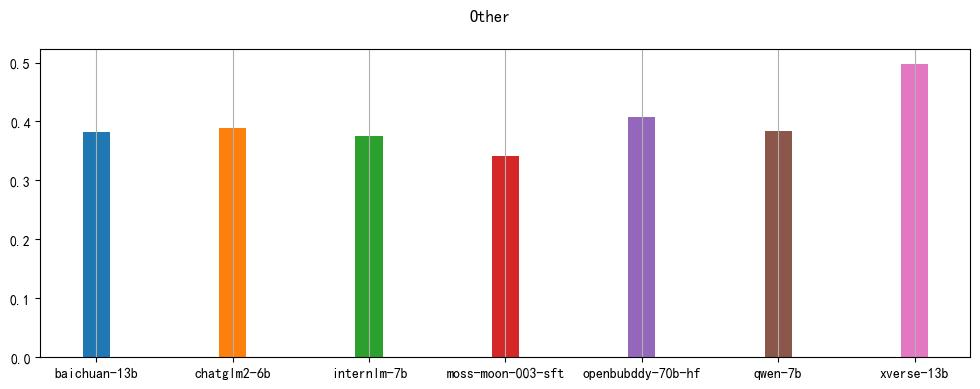
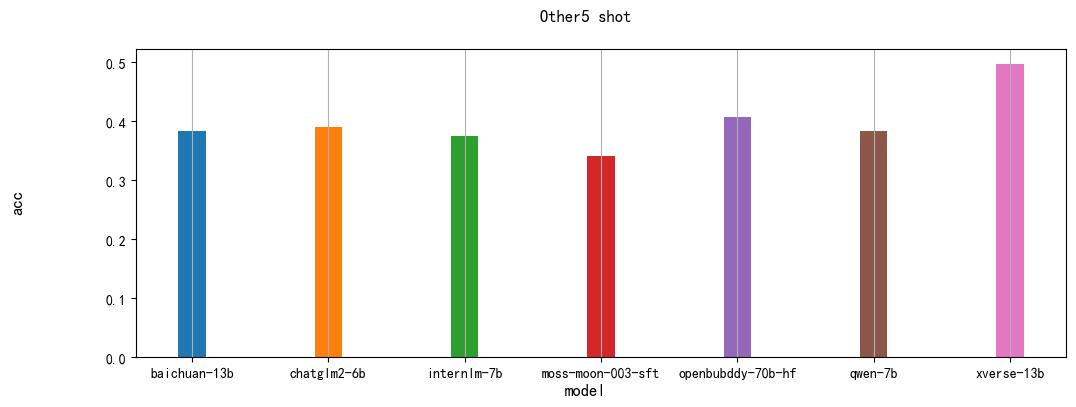
update

diff --git a/outputs/model_result/draw_ceval.py b/outputs/model_result/draw_ceval.py
@@ -47,9 +47,9 @@ for k,v in data_map.items():
 
 
 
-plt.title("five shot ceval")                 #设置标题，这里只能显示英文，中文显示乱码
+plt.title("ceval 5 shot")                 #设置标题，这里只能显示英文，中文显示乱码
 plt.ylabel("acc")            #设置y轴名称
-plt.xlabel("ceval category")            #设置x轴名称
+plt.xlabel("category")            #设置x轴名称
 
 
 plt.legend()
@@ -77,8 +77,9 @@ for idx in range(len(metric)):
         axs.bar(k, y_label,width=0.2)
 
 
-    fig.suptitle(list(metric.keys())[idx])
-
+    fig.suptitle(list(metric.keys())[idx] + '5 shot')
+    fig.supxlabel("model")
+    fig.supylabel("acc")
     fig.savefig(f"./img_{idx}.jpg", bbox_inches='tight')
 
 
